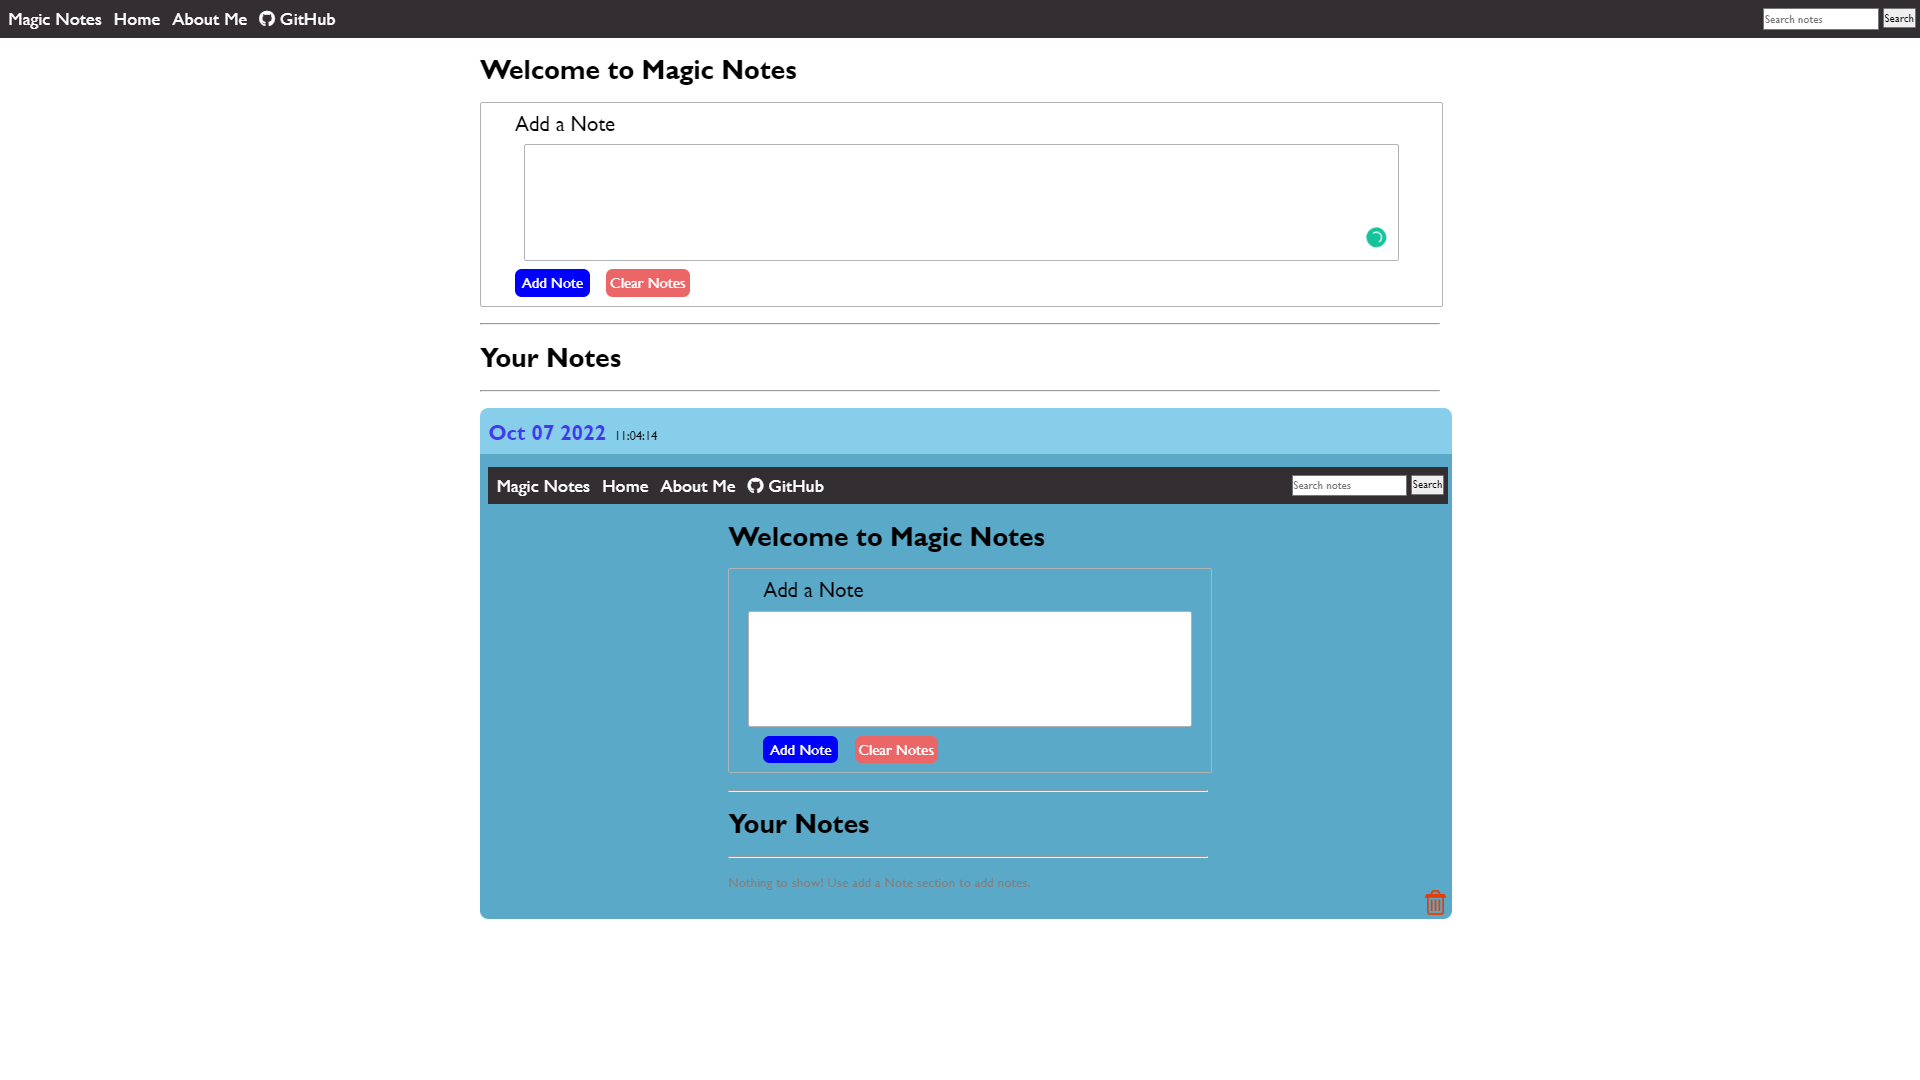
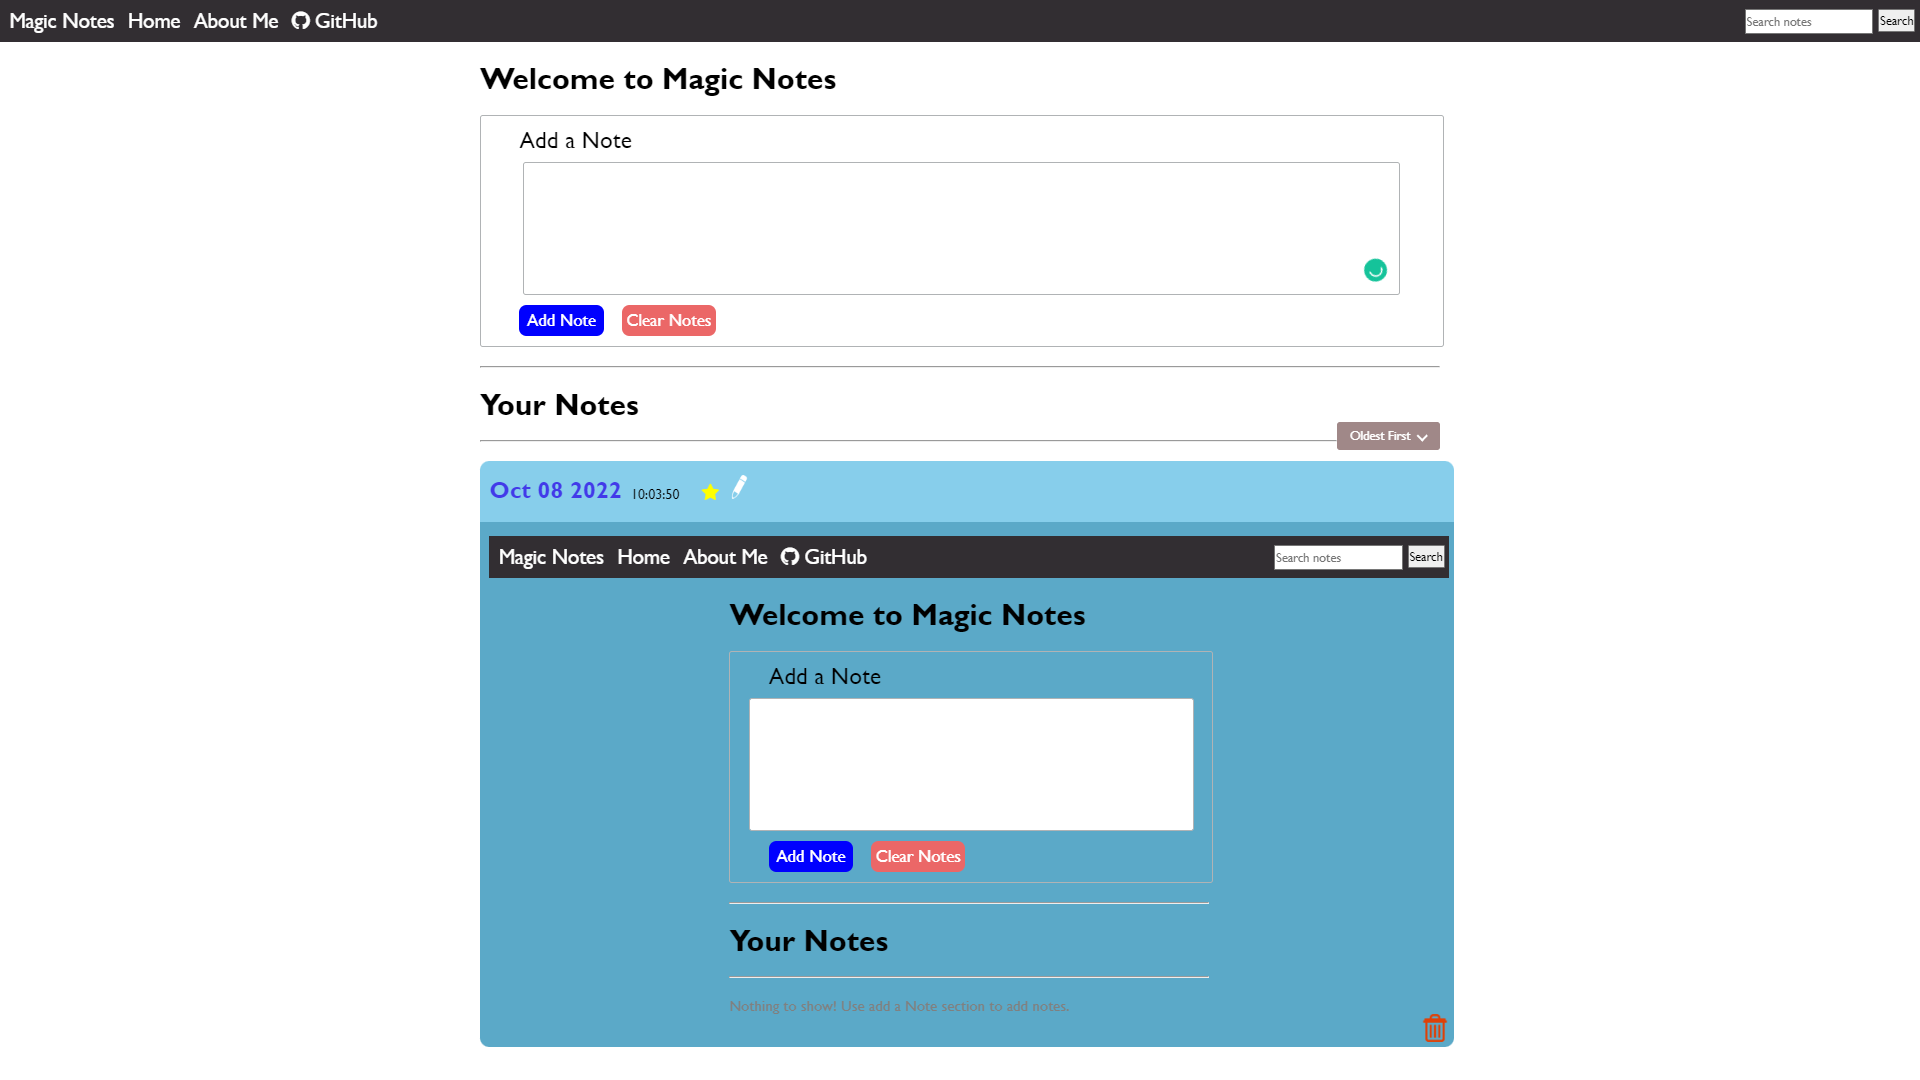
fixed all edit and added blink on edit

Changed region(s): [[0.25, 0.2444, 0.7812, 0.9778], [0.0, 0.0, 1.0, 0.1528], [0.6875, 0.2139, 0.7188, 0.275]]

diff --git a/js/tmp.js b/js/tmp.js
@@ -269,8 +269,8 @@ function edit(id){
     if(editbox.style.display == "none")
         editbox.style.display = "block";
     else
-        editbox.style.display = "none";
-        
+        return;    
+    blink("task"+id);
     let toChangeText = document.getElementById("toChangeText");
     toChangeText.value = document.getElementById(reqId).innerText;
     document.getElementById("changeText").addEventListener('click',()=>{
@@ -294,8 +294,21 @@ function changeText(reqId, text){
     })
 
     localStorage.setItem('tasks',JSON.stringify(tasks));
+    window.location.reload();
 }
 
 document.getElementById('cancel').addEventListener('click',()=>{
+    window.location.reload();
     editbox.style.display = "none";
 })
+
+function blink(id){
+    let curr_ele = document.getElementById(id);
+    setTimeout(() => {
+        if(curr_ele.style.color !== "black")
+            curr_ele.style.color = "black";
+        else
+            curr_ele.style.color = "white";
+        blink(id);
+    }, 500);
+}
